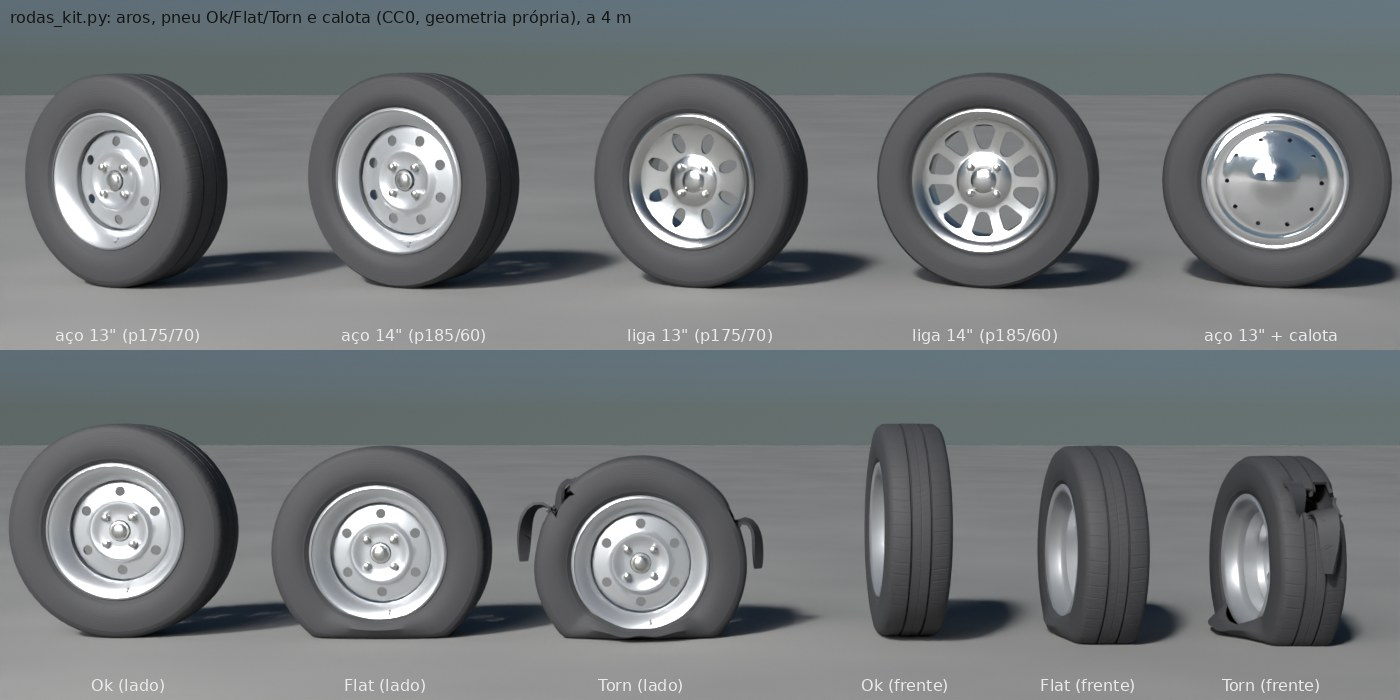
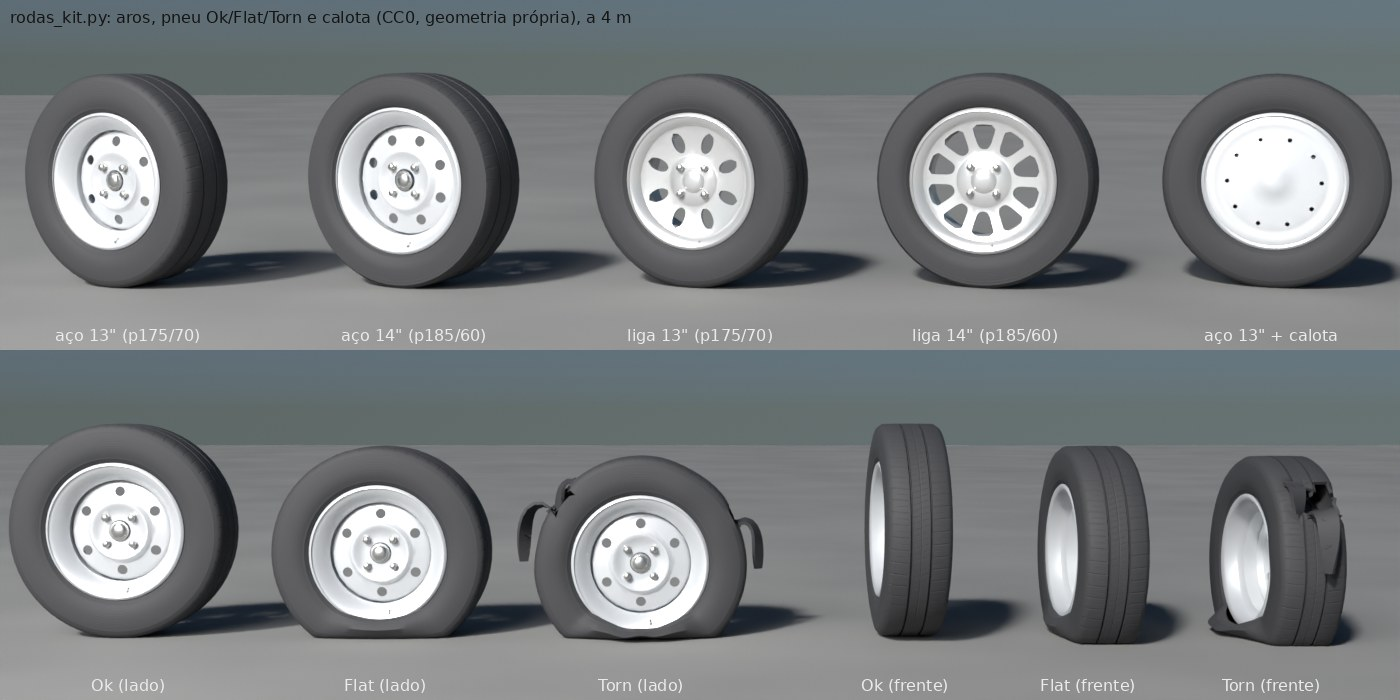
Rodas de kit acetinadas: calota de plástico prata e aro de aço pintado
Espelhadas, elas refletiam o chão e o escuro da caixa de roda e a roda
saía preta no jogo.

Claude-Session: https://claude.ai/code/session_01UoghWwmxLwuDQ8SGB1KpZ7

diff --git a/ferramentas/rodas_kit.py b/ferramentas/rodas_kit.py
@@ -792,9 +792,11 @@ def materiais(out):
     mats = {}
     # 29/10 (o Felipe: "pneus e rodas têm que ter mais cara de realismo"): aro de aço com tinta prata de fábrica (não o cinza
     # chumbo de antes), liga e calota mais espelhadas, pneu de borracha nova (preto fosco, não preto chapado)
-    mats["aro_aco"], _ = principled("aro_aco", (0.52, 0.53, 0.54), 0.75, 0.32)
-    mats["aro_liga"], _ = principled("aro_liga", (0.62, 0.62, 0.61), 1.0, 0.22)
-    mats["calota"], _ = principled("calota", (0.86, 0.86, 0.87), 1.0, 0.10)
+    # 29/10 (noite, no jogo): espelhadas, calota e aro só refletiam o chão e o escuro da caixa de roda e a roda saía preta. A calota
+    # da época é plástico pintado de prata e o aro é aço pintado: acetinados, pouco metal, claros por conta própria
+    mats["aro_aco"], _ = principled("aro_aco", (0.60, 0.61, 0.62), 0.40, 0.35)
+    mats["aro_liga"], _ = principled("aro_liga", (0.66, 0.66, 0.65), 0.60, 0.25)
+    mats["calota"], _ = principled("calota", (0.78, 0.79, 0.80), 0.35, 0.22)
     mats["calota"].use_backface_culling = False
     mats["parafuso"], _ = principled("parafuso", (0.55, 0.55, 0.53), 1.0, 0.35)
     m, b = principled("pneu", (0.034, 0.034, 0.036), 0.0, 0.72, spec=0.45)
